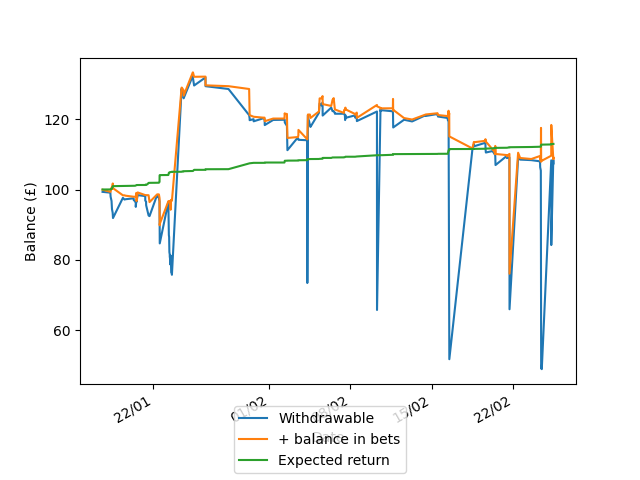
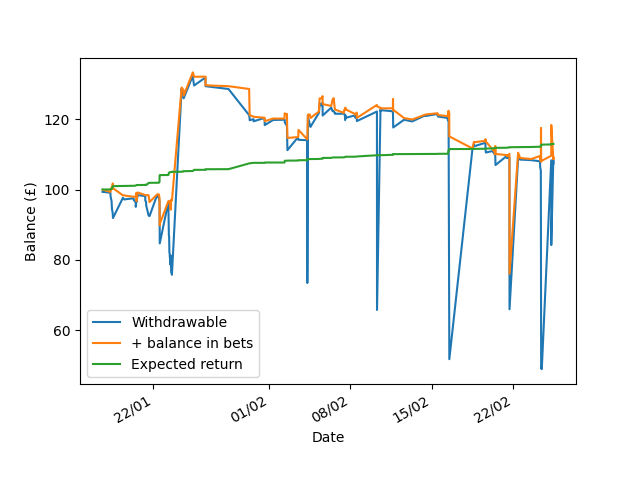
fixed graph

Changed region(s): [[0.125, 0.6562, 0.4062, 0.7812], [0.3438, 0.8438, 0.6562, 0.9688], [0.375, 0.9062, 0.4062, 0.9688]]

diff --git a/matcher/stats.py b/matcher/stats.py
@@ -107,7 +107,7 @@ def plot_bal_time_series_graph():
     fig.autofmt_xdate()
     ax.set_xlabel('Date')
     ax.set_ylabel('Balance (£)')
-    fig.legend(loc="lower center")
+    ax.legend(loc="lower left")
     plt.savefig(BALANCE_PNG)
     print('Generated graph at: %s' % BALANCE_PNG)
 
